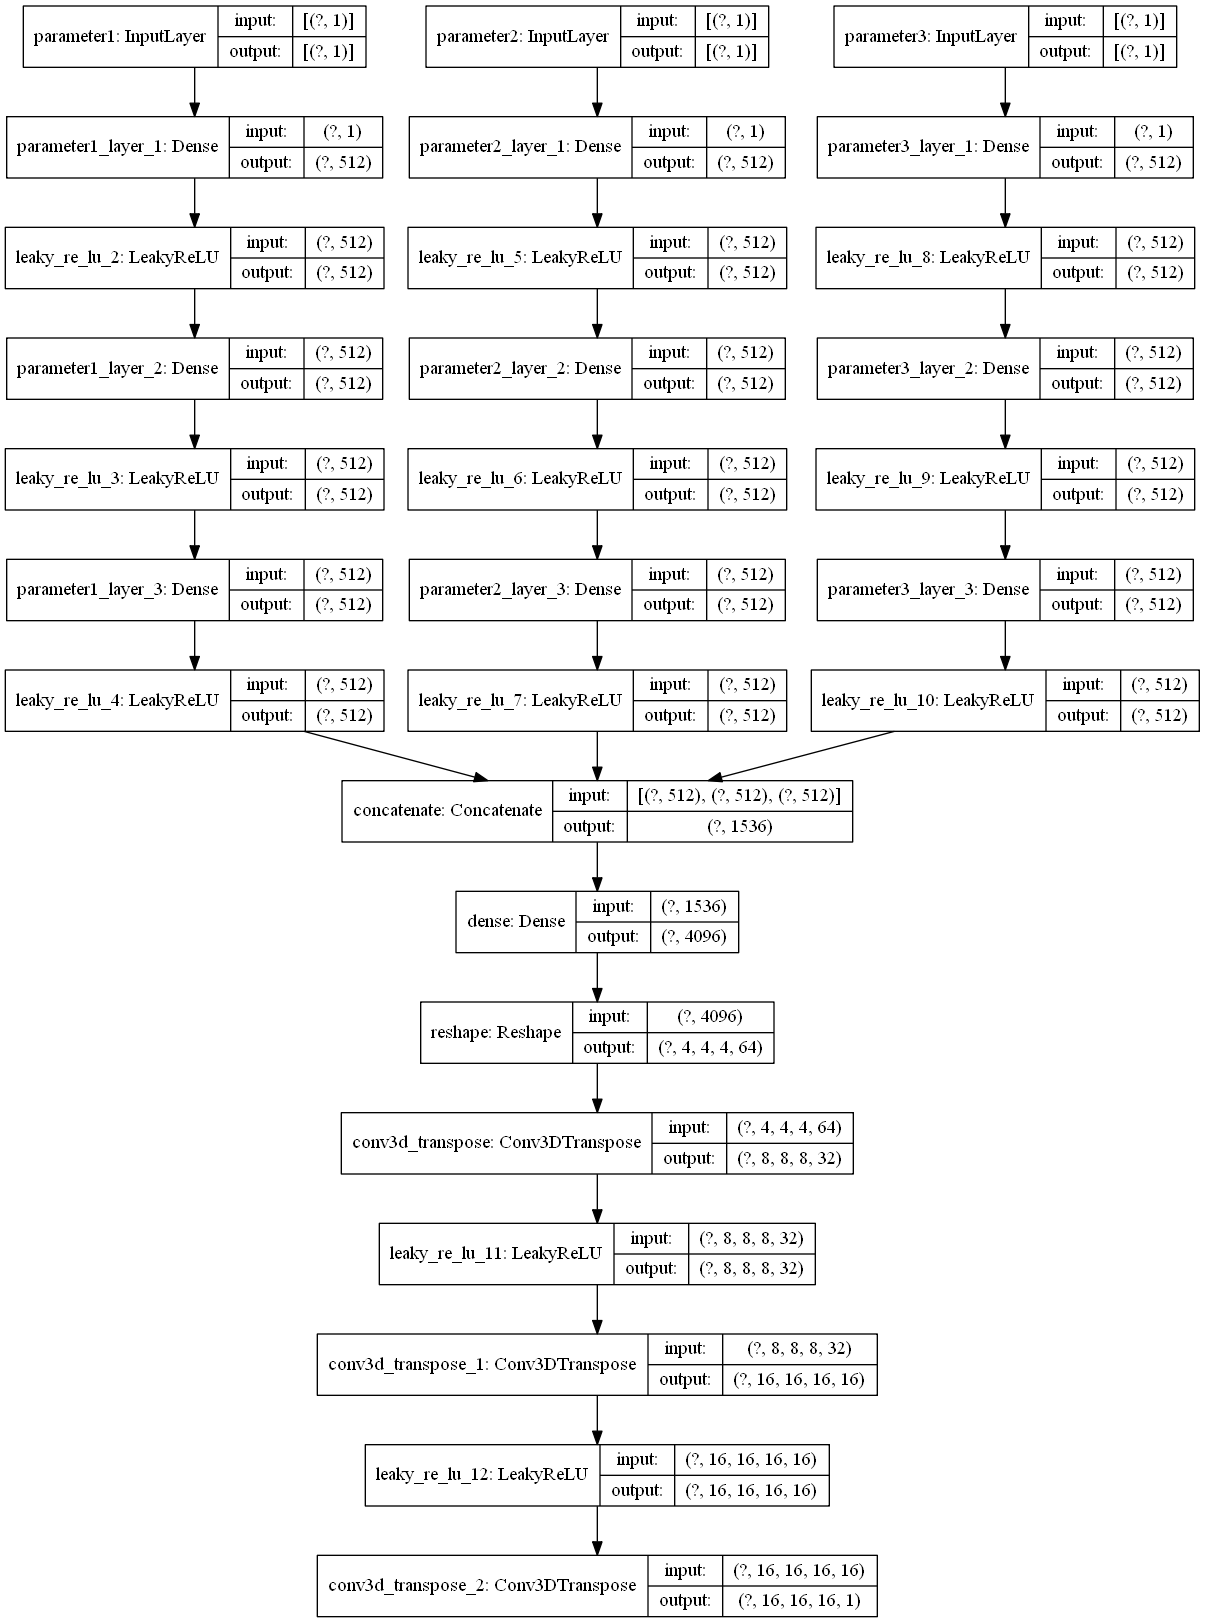
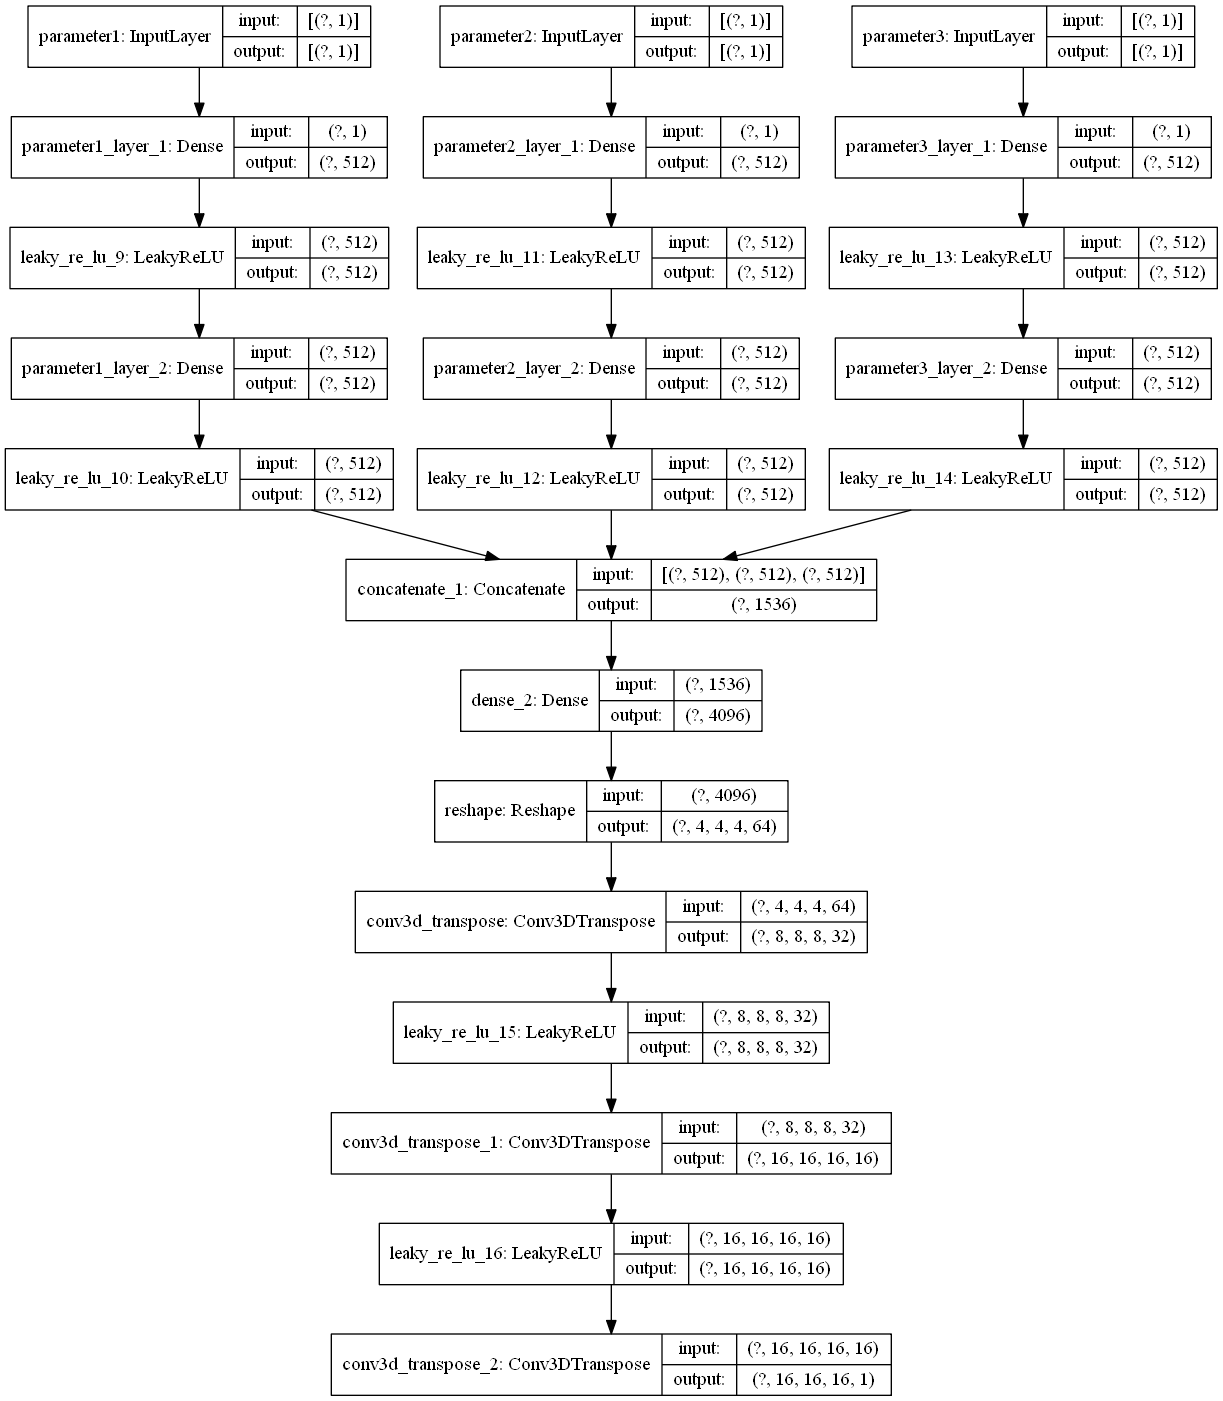
大改版前最後

Changed region(s): [[0.0, 0.0, 1.0, 1.0]]

diff --git a/GAN.py b/GAN.py
@@ -27,13 +27,12 @@ class GAN():
         self.trainSize = 699
         self.filterNumber = 16
         self.L2_coefficient =1/(length*width*height)
-        self.validationSize = 59
         self.dis = self.discriminator()
-        self.disOptimizer = keras.optimizers.RMSprop(lr = 0.0002, clipvalue = 1.0, decay = 1e-8)
-        #self.disOptimizer = keras.optimizers.Adam(lr = 0.0002, clipvalue = 1.0, decay = 1e-8)
+        #self.disOptimizer = keras.optimizers.RMSprop(lr = 0.0002, clipvalue = 1.0, decay = 1e-8)
+        self.disOptimizer = keras.optimizers.Adam(lr = 0.0002, clipvalue = 1.0, decay = 1e-8)
         self.gen = self.generator()
-        self.genOptimizer = keras.optimizers.RMSprop(lr = 0.00005, clipvalue = 1.0, decay = 1e-8)
-        #self.genOptimizer = keras.optimizers.Adam(lr = 0.00005, clipvalue = 1.0, decay = 1e-8)                                            
+        #self.genOptimizer = keras.optimizers.RMSprop(lr = 0.00005, clipvalue = 1.0, decay = 1e-8)
+        self.genOptimizer = keras.optimizers.Adam(lr = 0.00005, clipvalue = 1.0, decay = 1e-8)                                            
         self.gradient_penality_width = 10.0
 
 
@@ -48,9 +47,7 @@ class GAN():
         x = layers.Dense(512, name = 'parameter1_layer_2')(x)
         # if self.hparams[HP_BN_UNITS] : x = layers.BatchNormalization()(x)
         x = layers.LeakyReLU()(x)
-        x = layers.Dense(512, name = 'parameter1_layer_3')(x)
-        # if self.hparams[HP_BN_UNITS] : x = layers.BatchNormalization()(x)
-        x = layers.LeakyReLU()(x)
+
         
         y = layers.Dense(512, name = 'parameter2_layer_1')(parameter2_input)
         # if self.hparams[HP_BN_UNITS] : y = layers.BatchNormalization()(y)
@@ -58,17 +55,12 @@ class GAN():
         y = layers.Dense(512, name = 'parameter2_layer_2')(y)
         # if self.hparams[HP_BN_UNITS] : y = layers.BatchNormalization()(y)
         y = layers.LeakyReLU()(y)
-        y = layers.Dense(512, name = 'parameter2_layer_3')(y)
-        # if self.hparams[HP_BN_UNITS] : y = layers.BatchNormalization()(y)
-        y = layers.LeakyReLU()(y)
+
         
         z = layers.Dense(512, name = 'parameter3_layer_1')(parameter3_input)
         # if self.hparams[HP_BN_UNITS] : z = layers.BatchNormalization()(z)
         z = layers.LeakyReLU()(z)
         z = layers.Dense(512, name = 'parameter3_layer_2')(z)
-        # if self.hparams[HP_BN_UNITS] : z = layers.BatchNormalization()(z)
-        z = layers.LeakyReLU()(z)
-        z = layers.Dense(512, name = 'parameter3_layer_3')(z)
         # if self.hparams[HP_BN_UNITS] : z = layers.BatchNormalization()(z)
         z = layers.LeakyReLU()(z)
 
@@ -105,10 +97,6 @@ class GAN():
         x = layers.Dense(512, name = 'parameter1_layer_2')(x)
         # if self.hparams[HP_BN_UNITS] : x = layers.BatchNormalization()(x)
         x = layers.LeakyReLU()(x)
-
-        x = layers.Dense(512, name = 'parameter1_layer_3')(x)
-        # if self.hparams[HP_BN_UNITS] : x = layers.BatchNormalization()(x)
-        x = layers.LeakyReLU()(x)
         
         y = layers.Dense(512, name = 'parameter2_layer_1')(parameter2_input)
         # if self.hparams[HP_BN_UNITS] : y = layers.BatchNormalization()(y)
@@ -117,20 +105,12 @@ class GAN():
         y = layers.Dense(512, name = 'parameter2_layer_2')(y)
         # if self.hparams[HP_BN_UNITS] : y = layers.BatchNormalization()(y)
         y = layers.LeakyReLU()(y)
-
-        y = layers.Dense(512, name = 'parameter2_layer_3')(y)
-        # if self.hparams[HP_BN_UNITS] : y = layers.BatchNormalization()(y)
-        y = layers.LeakyReLU()(y)
         
         z = layers.Dense(512, name = 'parameter3_layer_1')(parameter3_input)
         # if self.hparams[HP_BN_UNITS] : z = layers.BatchNormalization()(z)
         z = layers.LeakyReLU()(z)
 
         z = layers.Dense(512, name = 'parameter3_layer_2')(z)
-        # if self.hparams[HP_BN_UNITS] : z = layers.BatchNormalization()(z)
-        z = layers.LeakyReLU()(z)
-
-        z = layers.Dense(512, name = 'parameter3_layer_3')(z)
         # if self.hparams[HP_BN_UNITS] : z = layers.BatchNormalization()(z)
         z = layers.LeakyReLU()(z)
 
@@ -159,10 +139,10 @@ class GAN():
         f2 = layers.Dense(1)(d)
         r = layers.Add()([f1, f2])
         
-        r = layers.Activation(tf.nn.tanh)(r)
+        #r = layers.Activation(tf.nn.tanh)(r)
 
 
-        model = keras.Model(inputs = [parameter1_input, parameter2_input, parameter3_input, dataInput], outputs = d)
+        model = keras.Model(inputs = [parameter1_input, parameter2_input, parameter3_input, dataInput], outputs = r)
         #model = keras.Model(inputs = [dataInput], outputs = d)
         plot_model(model, to_file = "WGAN_Discriminator.png", show_shapes=True)
         return model
@@ -194,8 +174,8 @@ class GAN():
         x_img = _interpolate(real_data[1], fake_data)
         with tf.GradientTape() as tape:
             tape.watch(x_img)
-            #pred_logit = dis([real_data[0][0], real_data[0][1], real_data[0][2], x_img])
-            pred_logit = dis([x_img])
+            pred_logit = dis([real_data[0][0], real_data[0][1], real_data[0][2], x_img])
+            #pred_logit = dis([x_img])
         grad = tape.gradient(pred_logit, x_img)
         norm = tf.norm(tf.reshape(grad, [tf.shape(grad)[0], -1]), axis = 1)
         gp_loss = tf.reduce_mean((norm-1.)**2)
@@ -233,10 +213,10 @@ class GAN():
             # std = tf.reshape(real_data[1][3], [self.batchSize, 1, 1, 1])
 
             fake_data = self.gen([random_vector1, random_vector2, random_vector3],training = True)
-            #real_logit = self.dis([real_data[0][0], real_data[0][1], real_data[0][2], real_data[1]] , training = True)
-            real_logit = self.dis([real_data[1]] , training = True)
-            #fake_logit = self.dis([random_vector1, random_vector2, random_vector3, fake_data], training = True)
-            fake_logit = self.dis([fake_data], training = True)
+            real_logit = self.dis([real_data[0][0], real_data[0][1], real_data[0][2], real_data[1]] , training = True)
+            #real_logit = self.dis([real_data[1]] , training = True)
+            fake_logit = self.dis([random_vector1, random_vector2, random_vector3, fake_data], training = True)
+            #fake_logit = self.dis([fake_data], training = True)
             real_loss, fake_loss = self.discriminator_loss(real_logit, fake_logit)
             gp_loss = self.gradient_penality(partial(self.dis, training = True), real_data, fake_data)
             dLoss = (real_loss + fake_loss) + gp_loss*self.gradient_penality_width
@@ -309,7 +289,7 @@ class GAN():
                 tf.summary.scalar('generator_loss', g_loss, epoch)
                 tf.summary.scalar('gradient_penalty', gp, epoch)
             print(f'Epoch: {epoch:6} G Loss: {g_loss:15.2f} D loss: {d_loss:15.2f} GP Loss {gp:15.2f} L2: {l2:10f} RMSE: {RMSE* 100 :3.5f}%  ')
-            saveModel.on_epoch_end(l2)
+            saveModel.on_epoch_end(RMSE)
             if epoch%1000 == 0:
                 saveModel.save_model()
             epoch += 1

diff --git a/resblock.py b/resblock.py
@@ -67,76 +67,3 @@ class ResBlock_discriminator(layers.Layer):
       
       return outputs
 
-from tensorflow.python.eager import def_function
-from tensorflow.python.framework import dtypes
-from tensorflow.python.framework import tensor_shape
-from tensorflow.python.keras import backend as K
-from tensorflow.python.keras import layers
-from tensorflow.python.keras import initializers
-from tensorflow.python.ops import array_ops
-from tensorflow.python.ops import math_ops
-class SpectralNormalization(layers.Wrapper):
-    """
-    Attributes:
-       layer: tensorflow keras layers (with kernel attribute)
-    """
-
-    def __init__(self, layer, **kwargs):
-        super(SpectralNormalization, self).__init__(layer, **kwargs)
-
-    def build(self, input_shape):
-        """Build `Layer`"""
-
-        if not self.layer.built:
-            self.layer.build(input_shape)
-
-            if not hasattr(self.layer, 'kernel'):
-                raise ValueError(
-                    '`SpectralNormalization` must wrap a layer that'
-                    ' contains a `kernel` for weights')
-
-            self.w = self.layer.kernel
-            self.w_shape = self.w.shape.as_list()
-            self.u = self.add_variable(
-                shape=tuple([1, self.w_shape[-1]]),
-                initializer=initializers.TruncatedNormal(stddev=0.02),
-                name='sn_u',
-                trainable=False,
-                dtype=dtypes.float32)
-
-        super(SpectralNormalization, self).build()
-
-    @def_function.function
-    def call(self, inputs, training=None):
-        """Call `Layer`"""
-        if training==None:
-            training = K.learning_phase()
-        
-        if training==True:
-            # Recompute weights for each forward pass
-            self._compute_weights()
-        
-        output = self.layer(inputs)
-        return output
-
-    def _compute_weights(self):
-        """Generate normalized weights.
-        This method will update the value of self.layer.kernel with the
-        normalized value, so that the layer is ready for call().
-        """
-        w_reshaped = array_ops.reshape(self.w, [-1, self.w_shape[-1]])
-        eps = 1e-12
-        _u = array_ops.identity(self.u)
-        _v = math_ops.matmul(_u, array_ops.transpose(w_reshaped))
-        _v = _v / math_ops.maximum(math_ops.reduce_sum(_v**2)**0.5, eps)
-        _u = math_ops.matmul(_v, w_reshaped)
-        _u = _u / math_ops.maximum(math_ops.reduce_sum(_u**2)**0.5, eps)
-
-        self.u.assign(_u)
-        sigma = math_ops.matmul(math_ops.matmul(_v, w_reshaped), array_ops.transpose(_u))
-
-        self.layer.kernel.assign(self.w / sigma)
-
-    def compute_output_shape(self, input_shape):
-        return tensor_shape.TensorShape(
-            self.layer.compute_output_shape(input_shape).as_list())

diff --git a/SpectralNormalization.py b/SpectralNormalization.py
@@ -71,3 +71,66 @@ class SpectralNormalization(layers.Wrapper):
     def compute_output_shape(self, input_shape):
         return tensor_shape.TensorShape(
             self.layer.compute_output_shape(input_shape).as_list())
+
+# import tensorflow as tf  # TF 2.0
+
+
+# class SpectralNormalization(tf.keras.layers.Wrapper):
+#     def __init__(self, layer, iteration=1, eps=1e-12, training=True, **kwargs):
+#         self.iteration = iteration
+#         self.eps = eps
+#         self.do_power_iteration = training
+#         if not isinstance(layer, tf.keras.layers.Layer):
+#             raise ValueError(
+#                 'Please initialize `TimeDistributed` layer with a '
+#                 '`Layer` instance. You passed: {input}'.format(input=layer))
+#         super(SpectralNormalization, self).__init__(layer, **kwargs)
+
+#     def build(self, input_shape):
+#         self.layer.build(input_shape)
+
+#         self.w = self.layer.kernel
+#         self.w_shape = self.w.shape.as_list()
+
+#         self.v = self.add_weight(shape=(1, self.w_shape[0] * self.w_shape[1] * self.w_shape[2]),
+#                                  initializer=tf.initializers.TruncatedNormal(stddev=0.02),
+#                                  trainable=False,
+#                                  name='sn_v',
+#                                  dtype=tf.float32)
+
+#         self.u = self.add_weight(shape=(1, self.w_shape[-1]),
+#                                  initializer=tf.initializers.TruncatedNormal(stddev=0.02),
+#                                  trainable=False,
+#                                  name='sn_u',
+#                                  dtype=tf.float32)
+
+#         super(SpectralNormalization, self).build()
+
+#     def call(self, inputs):
+#         self.update_weights()
+#         output = self.layer(inputs)
+#         self.restore_weights()  # Restore weights because of this formula "W = W - alpha * W_SN`"
+#         return output
+    
+#     def update_weights(self):
+#         w_reshaped = tf.reshape(self.w, [-1, self.w_shape[-1]])
+        
+#         u_hat = self.u
+#         v_hat = self.v  # init v vector
+
+#         if self.do_power_iteration:
+#             for _ in range(self.iteration):
+#                 v_ = tf.matmul(u_hat, tf.transpose(w_reshaped))
+#                 v_hat = v_ / (tf.reduce_sum(v_**2)**0.5 + self.eps)
+
+#                 u_ = tf.matmul(v_hat, w_reshaped)
+#                 u_hat = u_ / (tf.reduce_sum(u_**2)**0.5 + self.eps)
+
+#         sigma = tf.matmul(tf.matmul(v_hat, w_reshaped), tf.transpose(u_hat))
+#         self.u.assign(u_hat)
+#         self.v.assign(v_hat)
+
+#         self.layer.kernel.assign(self.w / sigma)
+
+#     def restore_weights(self):
+#         self.layer.kernel.assign(self.w)
